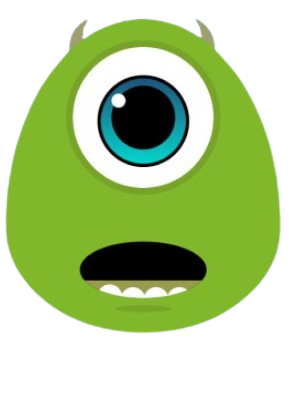
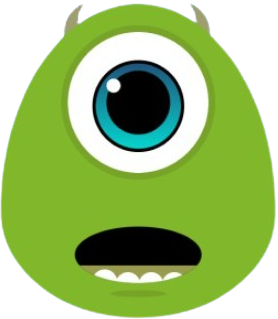
Mike Wazowski finished

diff --git a/Mike Wazowski/styles.css b/Mike Wazowski/styles.css
@@ -19,13 +19,51 @@ body {
 	justify-content: center;
 	align-items: center;
 }
-.layout__img {
-	display: block;
+.layout__horn--left {
+	background-color: #ccc;
+	width: 30px;
+	height: 59px;
 	position: absolute;
-	z-index: 3;
-	width: 400px;
-	opacity: 0.5;
+	top: -5px;
+	left: 87px;
+	z-index: -1;
+	border-radius: 50%;
+	transform: rotate(28deg);
 }
+.layout__horn--left::before {
+	content: "";
+	background-color: #fff;
+	position: absolute;
+	top: -2px;
+	left: 8px;
+	width: 20px;
+	height: 34px;
+	border-radius: 50%;
+	transform: rotate(-12deg);
+}
+.layout__horn--right {
+	background-color: #ccc;
+	width: 30px;
+	height: 59px;
+	position: absolute;
+	top: -5px;
+	left: 254px;
+	z-index: -1;
+	border-radius: 50%;
+	transform: rotate(-28deg);
+}
+.layout__horn--right::before {
+	content: "";
+	background-color: #fff;
+	position: absolute;
+	top: -2px;
+	left: 0px;
+	width: 20px;
+	height: 34px;
+	border-radius: 50%;
+	transform: rotate(12deg);
+}
+
 .layout__head {
 	background-color: #aee151;
 	width: 371px;
@@ -74,4 +112,48 @@ body {
 	width: 20px;
 	height: 20px;
 	border-radius: 100%;
+}
+.head__mouth {
+	height: 77px;
+	width: 174px;
+	background: linear-gradient(to bottom, #000 0%, #000 70%, #989948 70%, #989948 100%);
+	position: absolute;
+	top: 70%;
+	left: 27%;
+	border-radius: 50%;
+	overflow: hidden;
+}
+
+.mouth__teeth {
+	position: absolute;
+	width: 40px;
+	height: 74px;
+	border-radius: 50%;
+	background-color: #fff;
+	overflow: hidden;
+}
+.mouth__teeth--1 {
+	left: 21px;
+	top: 56px;
+}
+.mouth__teeth--2 {
+	left: 53px;
+	top: 62px;
+}
+.mouth__teeth--3 {
+	left: 85px;
+	top: 62px;
+}
+.mouth__teeth--4 {
+	left: 115px;
+	top: 62px;
+}
+.mouth__beard {
+	position: absolute;
+	width: 90px;
+	height: 12px;
+	top: 74%;
+	left: 45%;
+	background-color: #7b7b7b5e;
+	border-radius: 50%;
 }

diff --git a/Mike Wazowski/index.html b/Mike Wazowski/index.html
@@ -10,8 +10,9 @@
 <body>
 	<div class="layout">
 		<main class="layout__container">
-			<img src="mike.png" class="layout__img">
 			<div class="layout__head">
+				<div class="layout__horn--left"></div>
+				<div class="layout__horn--right"></div>
 				<div class="head__eye">
 					<div class="eye__iris">
 						<div class="eye__pupil">
@@ -20,13 +21,13 @@
 					</div>
 				</div>
 				<div class="head__mouth">
-					<div class="mouth__teeth mouth__teeth--1">
-					<div class="mouth__teeth mouth__teeth--2">
-					<div class="mouth__teeth mouth__teeth--3">
-					<div class="mouth__teeth mouth__teeth--4">
+					<div class="mouth__teeth mouth__teeth--1"></div>
+					<div class="mouth__teeth mouth__teeth--2"></div>
+					<div class="mouth__teeth mouth__teeth--3"></div>
+					<div class="mouth__teeth mouth__teeth--4"></div>
 				</div>
 			</div>
-			<div class="layout__horn"></div>
+			<div class="mouth__beard"></div>
 		</main>
 	</div>
 </body>
